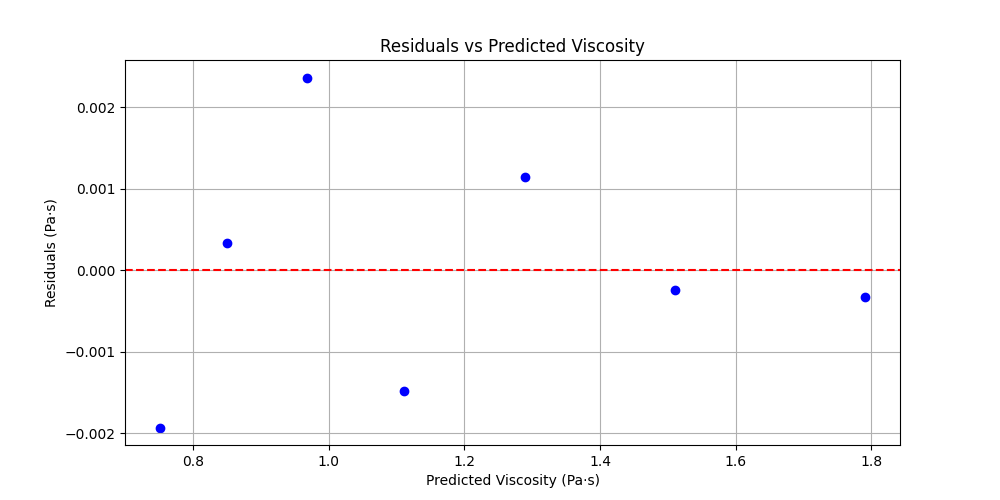
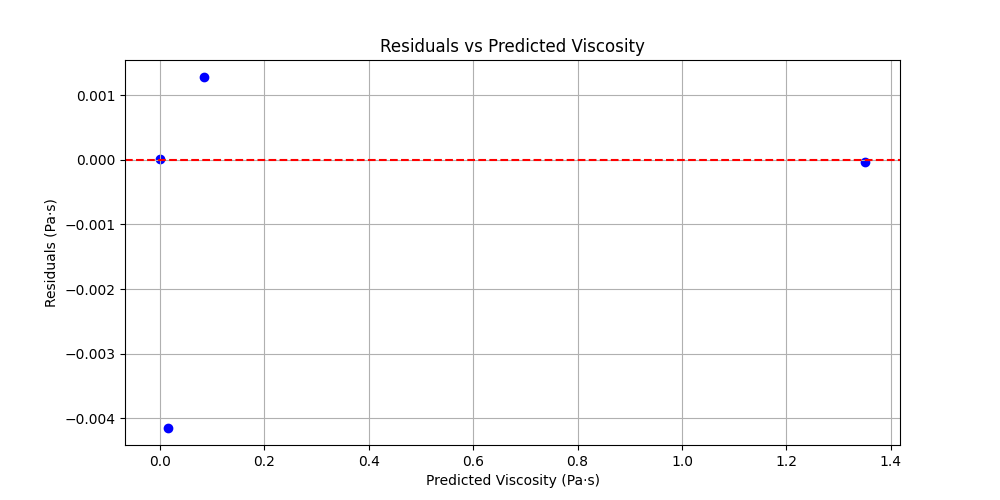
Midterm-2

diff --git a/MIdterm-2/test.py b/MIdterm-2/test.py
@@ -3,8 +3,8 @@ import matplotlib.pyplot as plt
 from scipy.optimize import curve_fit
 
 # Given data
-T = np.array([273, 283, 293, 303, 313, 323, 333])
-mu = np.array([1.79, 1.51, 1.29, 1.11, 0.97, 0.85, 0.75])
+T = np.array([299.82, 366.48, 422.04, 588.71])
+mu = np.array([1.35,0.085,0.012,0.00075])
 
 # Define the nonlinear model
 def nonlinear_model(T, b0, b1):
